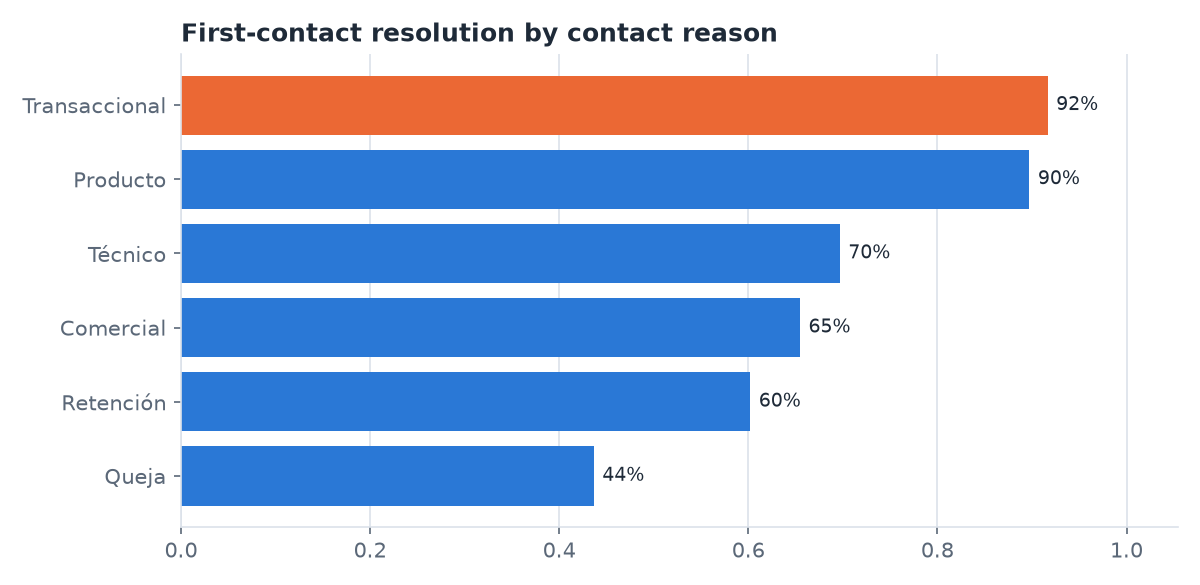
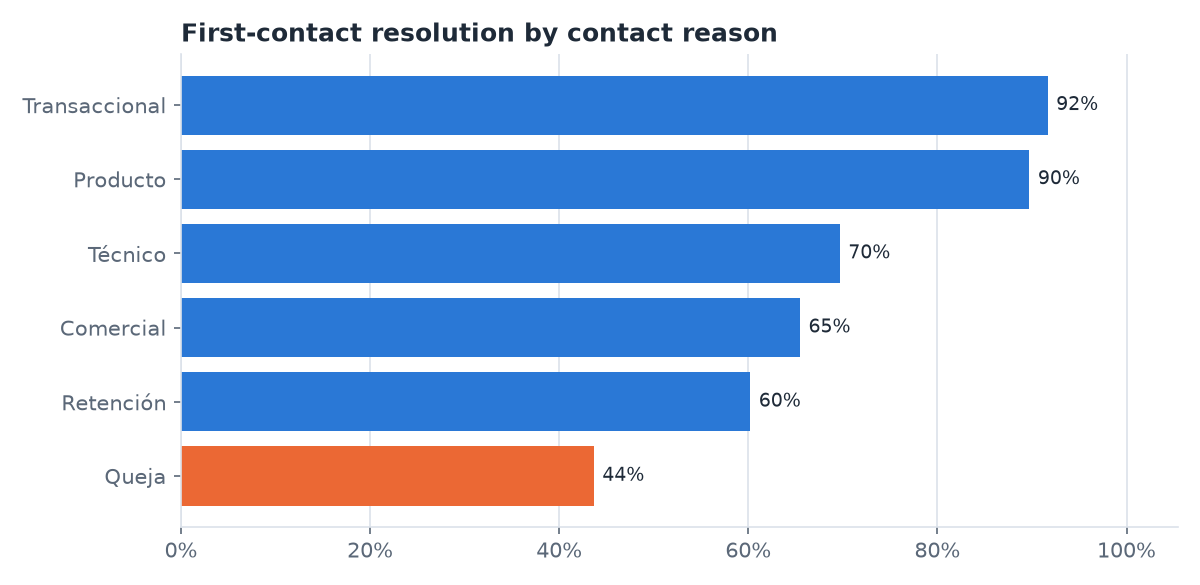
feat(analysis): dispute-handling hero figure, FCR chart accents Queja, percent axes

diff --git a/analysis/asis/charts.py b/analysis/asis/charts.py
@@ -2,6 +2,7 @@
 from pathlib import Path
 
 import matplotlib
+import matplotlib.ticker
 
 matplotlib.use("Agg")
 import matplotlib.pyplot as plt  # noqa: E402
@@ -32,6 +33,8 @@ def _barh(data, title, path, fmt, accent=None):
     for i, (_, v) in enumerate(data):
         ax.text(v + top * 0.01, i, fmt.format(v), va="center", color=INK, fontsize=9)
     ax.set_xlim(0, top * 1.15)
+    if "%" in fmt:
+        ax.xaxis.set_major_formatter(matplotlib.ticker.PercentFormatter(1.0, decimals=0))
     ax.grid(axis="x", color=LINE, linewidth=0.8)
     _style(ax, title)
     fig.tight_layout()
@@ -51,12 +54,32 @@ def demand_by_hour(metrics: dict, path: Path) -> None:
     plt.close(fig)
 
 
+def dispute_handling(metrics: dict, path: Path) -> None:
+    """Three hero numbers, not a chart: different units, one message (the slide-1 problem)."""
+    get = lambda k: (metrics.get(k) or {}).get("value")  # noqa: E731
+    stats = [(f"{get('disputes.first_response_h_p50'):.0f} h", "median time to first response"),
+             (f"{get('disputes.resolution_days_p50'):.1f} days", "median time to resolve"),
+             (f"{get('disputes.backlog_share'):.0%}", "still open or in process")]
+    n = (metrics.get("disputes.count") or {}).get("value")
+    fig = plt.figure(figsize=(8, 2.6), dpi=150)
+    fig.text(0.03, 0.88, f"Dispute handling today ({n:,} dispute complaints, 12 months to 2026-06-17)",
+             color=INK, fontsize=12, fontweight="bold")
+    for i, (value, label) in enumerate(stats):
+        x = 0.03 + i * 0.36
+        fig.text(x, 0.42, value, color=ACCENT if i == 0 else INK, fontsize=28, fontweight="bold")
+        fig.text(x, 0.24, label, color=MUTED, fontsize=10)
+    fig.text(0.03, 0.05, "Source: organizer data, as-is report; evidence-tagged figures only.", color=MUTED, fontsize=8)
+    fig.savefig(path)
+    plt.close(fig)
+
+
 def render_all(metrics: dict, out_dir: Path) -> list[str]:
     out_dir = Path(out_dir)
     out_dir.mkdir(parents=True, exist_ok=True)
     demand_by_hour(metrics, out_dir / "asis-demand-by-hour.png")
     _barh(_prefixed(metrics, "quality.", ".fcr"), "First-contact resolution by contact reason",
-          out_dir / "asis-fcr-by-reason.png", "{:.0%}", accent="Transaccional")
+          out_dir / "asis-fcr-by-reason.png", "{:.0%}", accent="Queja")  # the pain, not the solved case
     _barh(_prefixed(metrics, "demand.by_channel."), "Share of contacts by channel",
           out_dir / "asis-channel-mix.png", "{:.0%}", accent="Phone")
-    return ["asis-demand-by-hour.png", "asis-fcr-by-reason.png", "asis-channel-mix.png"]
+    dispute_handling(metrics, out_dir / "asis-dispute-handling.png")
+    return ["asis-demand-by-hour.png", "asis-fcr-by-reason.png", "asis-channel-mix.png", "asis-dispute-handling.png"]

diff --git a/analysis/asis/tests/test_run.py b/analysis/asis/tests/test_run.py
@@ -21,6 +21,7 @@ def test_reconcile_passes_on_exact_match_and_fails_beyond_tolerance(con):
 def test_charts_are_written(con, tmp_path):
     names = render_all(metrics.collect(con), tmp_path)
     assert names and all((tmp_path / n).stat().st_size > 1000 for n in names)
+    assert "asis-dispute-handling.png" in names  # the three dispute numbers for slide 1
 
 
 def test_report_tags_artifacts_and_states_reconciliation(con):

diff --git a/README.md b/README.md
@@ -27,6 +27,8 @@ From the as-is diagnosis of the organizer data ([`reports/asis-2026-10-05.md`](r
 2025-06-17 → 2026-06-17). Every figure there is tagged **evidence** or **synthetic artifact**, and artifacts are never used
 as an argument.
 
+![Dispute handling today: 37 h to first response, 15.5 days to resolve, 70 % still open](reports/figures/asis-dispute-handling.png)
+
 | Finding | Value | Tag |
 |---|---|---|
 | Dispute complaints (Cargo no reconocido, Cobro indebido) | 8,199 | evidence |
